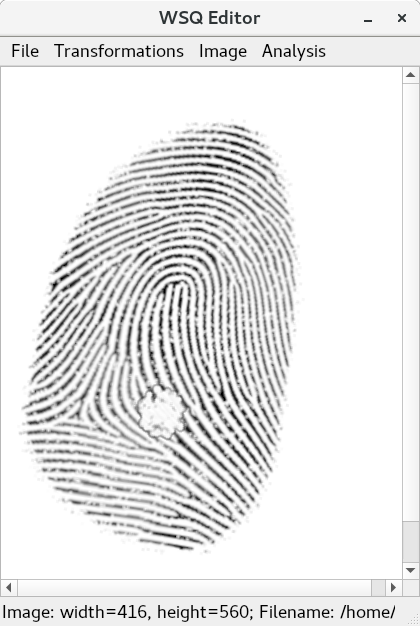
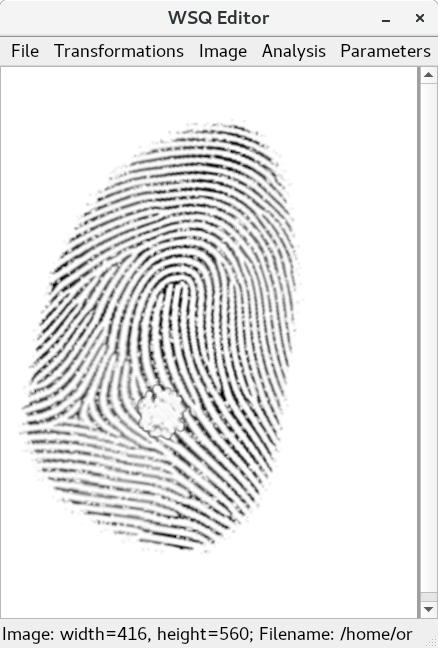
Update figure showing the GUI of the app
Now it shows the parameter settings window, that has been recently
implemented.

Changed region(s): [[0.031, 0.1821, 0.7119, 0.8802], [0.0, 0.0, 1.0, 1.0]]

diff --git a/doc/projekt-01-kapitoly-chapters.tex b/doc/projekt-01-kapitoly-chapters.tex
@@ -1175,8 +1175,10 @@
   obsahuje výber jednotlivých filtrov, transformácii a iných úkonov.
   \begin{figure}[h]
     \centering
-    \includegraphics[width=0.4\linewidth]{obrazky-figures/app.png}
-    \caption{Vzhľad aplikácie s načítanou snímkou syntetického odtlačku prsta z internej databázy STRaDe.}
+    \includegraphics[width=0.4\linewidth]{obrazky-figures/app.png}\hspace{0.05\linewidth}
+    \includegraphics[width=0.25\linewidth]{obrazky-figures/app_param_window.png}
+    \caption{Naľavo zobrazená aplikácia s načítanou snímkou syntetického odtlačku prsta z internej databázy STRaDe.
+              Napravo okno s možnosťou prestavovania niektorých parametrov spracovania a vyznačovania singularít a markantov.}
     \label{obr:app}
   \end{figure}
   Menu \emph{File} poskytuje možnosti pre otvorenie súboru a export spracovaných snímok. Menu \emph{Transformations} má možnosti pre rotovanie a priblíženie
